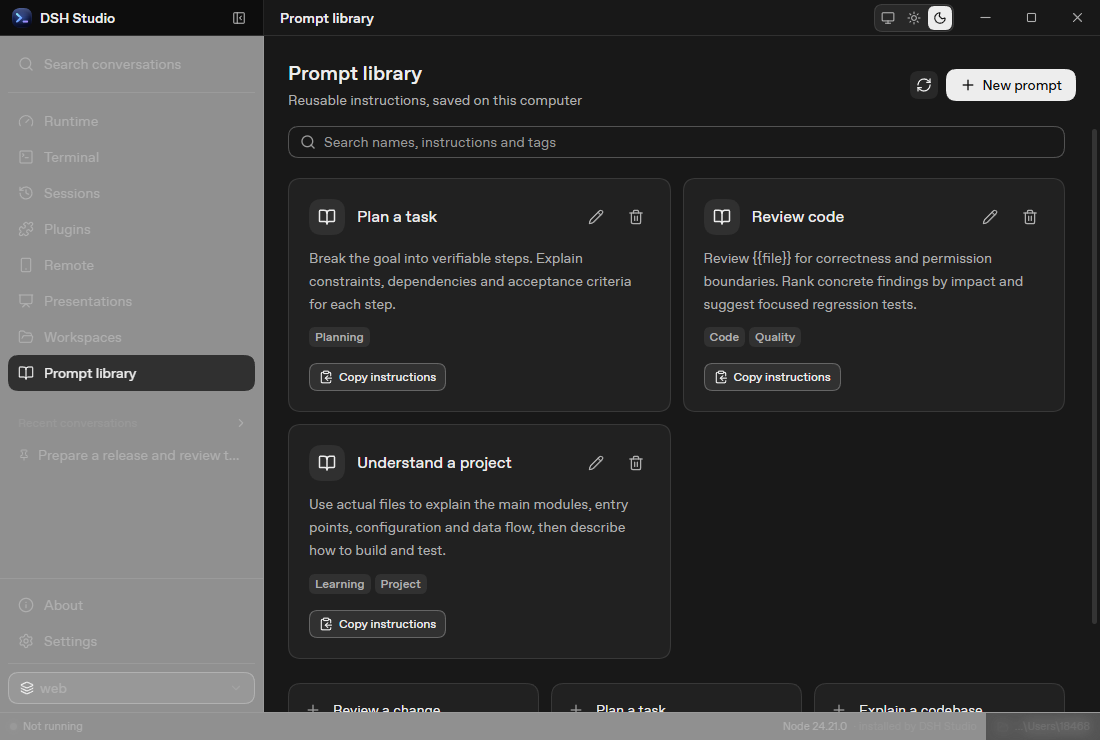
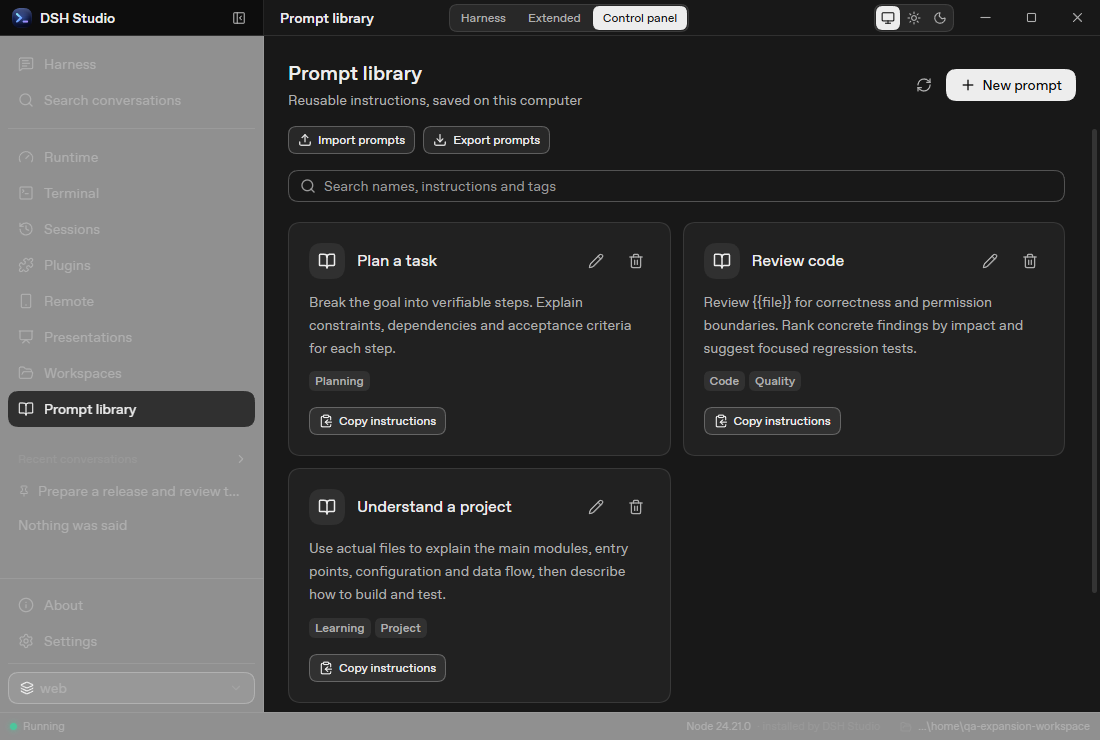
chore: 准备 v0.9.24 双语说明及真实桌面截图

diff --git a/.github/release-notes/0.9.24.zh-CN.md b/.github/release-notes/0.9.24.zh-CN.md
@@ -1,0 +1,32 @@
+# DSH Studio v0.9.24
+
+## 新功能
+
+- 工作区新增「浏览文件」：按目录加载、筛选和返回上级，直接预览及复制 UTF-8 文本。只读预览最多 1 MiB，目录最多 1,500 项，不执行文件内容。
+- 会话新增批量整理：一次最多 500 条，可批量置顶、取消置顶、添加或删除标签；保留既有名称、笔记和消息书签。
+- 提示库支持 JSON 导入导出；设置页支持个人资料备份恢复，包含提示词与会话资料。导入先查看数量和冲突，默认保留已有记录，也可明确替换冲突记录；未出现在备份中的记录继续保留。
+
+## 变更与安全
+
+- 批量会话操作先校验全部目标，再原子保存；任一目标失效或超限时整批不写入。
+- 导入使用源文件及现有资料摘要绑定预览，并发修改后必须重新确认；损坏、未知格式、超过 2 MiB 或合并后超限的资料拒绝覆盖。备份不包含凭据、运行环境设置和 Harness 原始日志。
+- 文件浏览限定当前工作区，拒绝越界、链接、重解析点和二进制预览；Windows 校验已打开句柄的最终路径。导出拒绝覆盖 Studio 托管数据。新增命令仅用于原生外壳，公开 Protocol 3 和只读 Host Protocol 1 保持既有边界。
+
+## 修复与打磨
+
+- 窗口与 Harness 外观双向同步，跟随系统保留为自动偏好；首次加载保护不再重复启动，避免紧接着选择的主题被忽略。
+- 搜索尚未稳定时禁用批量选择；切换搜索、筛选或排序后清空旧选择。标签草稿取消或改为置顶操作时先确认。
+- 个人工具统一弹窗、焦点、输入框和按钮。更新中英文使用指南、架构说明及真实桌面截图，本地待提交的主题修复一并纳入。
+
+## 验证
+
+- 两轮真实 Windows WebView 验收覆盖深浅主题、900×620 紧凑布局、文件目录/预览/复制、批量持久化、JSON 文件输入、取消导入、冲突保留/替换和过期预览拒绝。
+- 回归 10 个桌面页面、5 个真实终端及三轮 Harness 启停；连续跨界面改选浅色/跟随系统约 1 秒同步完成。首轮冷启动较慢，后两轮约 3 秒就绪。
+- 本地 679 项前端、577 项执行的 Rust 和 158 项打包测试通过，前端行覆盖率 99.36%；生产构建、体积预算、严格 Clippy、lint、ACL 与双语文档门禁通过。
+- 本地证据不包含付费模型调用、macOS/Linux 物理真机 GUI 或系统保存选择器的点击；原生 JSON 导出成功/失败已验证，正式安装与全平台资源由发布流水线验收。
+
+## 安装
+
+- 可覆盖升级 v0.9.23，保留既有运行时、配置、会话和个人资料。个人资料备份为 Studio 自有 JSON 格式，恢复不会重写 Harness 会话日志。
+- 继续提供 Windows x64、Linux x64、macOS Apple Silicon、Intel 和 Universal。Lite 按需安装运行时，Full/Offline 携带验证资源；Windows 便携版完整解压并保留 EXE 旁的 `dist/`。
+- 应用内更新继续使用签名更新通道；系统发布者签名与更新包签名是独立机制。

diff --git a/docs/user-guide.md b/docs/user-guide.md
@@ -63,6 +63,24 @@ apply a directory switch. Summaries inherit transcript read limits and are not b
 
 ## Reading and export
 
+**Organize selection** selects current session results for batch pinning/unpinning
+and adding/removing tags. Select at most 500 sessions; changing search or filters
+clears selection. Validation precedes one atomic save, preserving names, notes
+and bookmarks. Any invalid record rejects the entire batch.
+
+Import/export prompt JSON in **Prompt library**, or back up/restore prompts and
+session annotations under **Personal data** in Settings. Backups exclude
+credentials, Harness logs and runtime preferences. Preview counts and conflicts
+before importing: keep existing records by default or explicitly replace
+conflicts. Records absent from the backup remain. Concurrent changes require a
+fresh preview; corrupt, unknown-format and over-2-MiB input is rejected.
+
+**Browse files** in Workspaces lazily lists the current workspace, with filtering,
+parent navigation, read-only text preview and copying. Each directory displays
+at most 1,500 entries; previews accept valid UTF-8 text up to 1 MiB. Binary files
+and editing are unsupported. Symlinks and Windows reparse points are not followed;
+requests for an old workspace are rejected after switching roots.
+
 Search saved conversations by their content, open a matching excerpt, and export
 the native transcript as Markdown, HTML or JSON. Long transcripts display up to
 120 messages per segment; the footer goes to earlier, later, first or latest
@@ -81,6 +99,10 @@ loaded portion. Markdown/HTML exports include a warning; JSON includes
 Discovery can use npm, DSH 1024Store, the rate-limited reviewed dshfind catalog, or a custom standard catalog. The Sources tab also opens [DSH Hub](https://dsh-hub.org/) for community discovery: copy a listed npm package name back into Studio search and the same native review applies. DSH Hub currently exposes a website directory rather than Studio's public catalog Schema 1.0.0 endpoint, so Studio does not scrape its HTML or treat the homepage as an install authority. Results are indexed for ten minutes and support category filters, sorting and 25-item pages. A catalog can only suggest an exact npm target. Before any mutation, Studio resolves that version again through npm and checks package syntax and the Harness peer range. A successful market install writes a receipt with the exact source, version and integrity; the managed badge is shown only while the installed version still matches that receipt. Plugin changes have a durable before-image; an interrupted operation is rolled back on the next launch and reported in the UI.
 
 ## Presentation and desktop integration
+
+Light, Dark and System choices synchronize between the window and Harness
+settings. System remains an automatic preference. Initial connection waits for
+saved Harness settings; subsequent rapid choices synchronize after confirmation.
 
 The terminal layout selector offers a single pane, side-by-side panes, stacked
 panes and a four-pane grid. Open shells explicitly with **New terminal**; layout

diff --git a/docs/user-guide.zh-CN.md b/docs/user-guide.zh-CN.md
@@ -49,6 +49,19 @@ Web 界面。Studio 外壳从同一回环站点（`http://127.0.0.1`）伺服自
 
 ## 阅读与导出
 
+会话页的「批量整理」支持勾选当前结果、批量置顶或取消置顶，以及增删标签。一次最多
+选择 500 条，切换筛选或搜索条件会清空选择；所有记录通过校验后才一起保存，失败时
+整批保持原样，原有名称、笔记和书签保留。
+
+提示库支持导入及导出 JSON；设置页的「个人资料」可备份和恢复提示词及会话资料。
+备份不包含凭据、Harness 日志或运行环境设置。导入先预览数量和冲突，默认保留已有
+记录，也可明确选择替换冲突记录；备份中没有的记录不会删除。预览后资料发生变化时
+必须重新预览，损坏、未知格式或超过 2 MiB 的文件会被拒绝。
+
+工作区页的「浏览文件」按目录加载当前工作区，支持筛选、返回上级、文本预览和复制。
+每个目录最多显示 1,500 项，文本文件最多 1 MiB，仅接受有效 UTF-8 文本；不支持二进制
+预览或编辑。符号链接及 Windows 重解析点不跟随；切换工作区后旧请求会被拒绝。
+
 可以按内容搜索已有会话、打开命中片段，并将原生记录导出为 Markdown、HTML 或 JSON。
 长会话每段显示最多 120 条消息，底部可切换上一段、下一段、最早或最新消息；搜索直接
 打开命中消息所在的段。分页不会限制导出的记录。归档仅从活动列表隐藏会话，不删除
@@ -63,6 +76,9 @@ Harness 日志；可以在「已归档」页签中恢复。
 「发现」页可切换 npm、DSH 1024Store、受频率限制且经过审查的 dshfind 目录，或自定义标准目录。「来源」页还可以打开 [DSH Hub](https://dsh-hub.org/) 发现社区插件：把页面列出的 npm 包名带回 Studio 搜索，仍会经过同一套原生安全检查。DSH Hub 当前提供的是网站目录，不是 Studio 公开的目录 Schema 1.0.0 接口，因此 Studio 不会抓取其 HTML，也不会把首页当作安装权威。结果会索引缓存十分钟，并支持分类筛选、排序和每页 25 项的分页。目录只负责发现，安装前仍会从 npm 重新读取精确版本、检查包名和 Harness peer 兼容性。市场安装成功后会记录精确来源、版本与完整性；只有磁盘中的安装版本仍与回执一致时才显示「市场托管」。插件变更写入恢复日志；进程中断后，下次启动会恢复变更前状态并给出提示。
 
 ## 界面模式与桌面集成
+
+窗口与 Harness 设置中的浅色、深色、跟随系统会双向同步。「跟随系统」保留为自动
+偏好；首次连接等待 Harness 读取已保存设置，之后连续切换会在确认后同步。
 
 终端布局选择器支持单窗口、左右分屏、上下分屏和四宫格。通过**新建终端**显式打开
 Shell，切换布局不会创建或重启进程。超出当前分组的终端仍保留在标签栏，选择标签即可

diff --git a/.github/release-notes/0.9.24.en.md b/.github/release-notes/0.9.24.en.md
@@ -1,0 +1,27 @@
+# DSH Studio v0.9.24
+
+## New features
+
+- Browse workspace folders lazily, filter entries and preview/copy read-only UTF-8 text up to 1 MiB; list at most 1,500 entries per directory.
+- Organize up to 500 selected sessions with atomic pins and tag changes, preserving names, notes and bookmarks.
+- Import/export prompt JSON and back up/restore personal prompts and session annotations. Review conflicts, keep existing records by default or explicitly replace conflicts; preserve records absent from the backup.
+
+## Changes and safety
+
+- Validate complete batches before one atomic commit. Bind import previews to source/current-library digests, rejecting stale confirmation, malformed/future/oversized input and merge overflow. Exclude credentials, runtime preferences and Harness logs.
+- Bound browsing to the current workspace, reject traversal/links/reparse points/binary previews and verify final file-handle paths on Windows. Prevent exports to managed application data. Private shell commands retain public Protocol 3/Host Protocol 1 boundaries.
+
+## Fixes and polish
+
+- Synchronize shell/Harness appearance while preserving System preference; initial saved-settings settling no longer swallows rapid subsequent choices.
+- Disable batch controls while search settles, clear selections when the view changes and confirm discarding tag drafts. Reuse modal focus handling and shared controls; update bilingual guides, architecture and actual screenshots, including pending local theme fixes.
+
+## Verification
+
+- Two actual Windows WebView rounds cover dark/light, 900×620 layouts, file navigation/preview/copy, batch persistence, JSON input, canceled/keep/replace imports and stale-preview rejection.
+- Regress ten routes, five actual PTYs and three Harness start/stop cycles. Rapid appearance choices synchronize in about one second; first cold startup is slower than subsequent approximately-three-second starts.
+- Pass 679 frontend, 577 executed Rust and 158 packaging tests, with 99.36% frontend line coverage, production build/budget, strict Clippy, lint and contract/documentation checks. Paid providers, physical macOS/Linux GUI and OS save-picker clicks are outside local evidence; native export outcomes are verified and platform installers are qualified by release CI.
+
+## Installation
+
+- Upgrade over v0.9.23 retaining runtime, profiles, sessions and personal data. Existing five-platform Lite/Full editions continue; Windows portable builds require adjacent `dist/`. Personal JSON restore does not rewrite Harness logs. Updater and OS publisher signatures remain separate mechanisms.

diff --git a/CHANGELOG.md b/CHANGELOG.md
@@ -9,6 +9,26 @@ pre-1.0 caveat that anything may still move.
 
 ## [Unreleased]
 
+## [0.9.24] — 2026-10-01
+
+### Added
+
+- Browse the current workspace with lazy folder loading, filtering, parent navigation and bounded read-only UTF-8 previews/copying. Reject stale workspace requests, traversal, links and binary/oversized previews.
+- Select up to 500 sessions for atomic batch pins and tag changes. Selection follows the current search/filter view; preserve names, notes and bookmarks and reject the entire batch on validation failure.
+- Import/export prompt JSON and back up/restore personal session annotations and prompts. Preview conflicts, keep existing records by default or explicitly replace conflicts, and reject stale confirmations after concurrent changes. Exclude credentials, runtime settings and Harness logs.
+
+### Fixes and safety
+
+- Synchronize shell and Harness appearance through Harness's own theme service, retaining System preference. Restrict saved-settings settling to initial connection so rapid subsequent choices are not discarded; validate incoming bridge source/origin and cancel pending reports on disposal.
+- Protect open personal-data dialogs and writes during close/update/recovery. Reject corrupt/future/oversized imports, preserve absent records, use one atomic merge, and prevent exports from overwriting Studio's managed data.
+- Share modal focus handling across personal tools, disable batch controls while search results settle, and confirm before discarding tag drafts. Refresh bilingual guides and actual desktop screenshots.
+
+### Verification
+
+- Two real Windows WebView rounds cover file navigation/preview/copy, batch persistence, JSON file selection, keep/replace/cancel imports, stale-preview protection and native ACL failures; include light 900×620 and dark regular layouts.
+- Regress ten desktop routes and five real PTYs. Three Harness stop/start cycles succeed on Node 24.21.0; rapid cross-surface appearance changes persist. First cold start was slower than subsequent approximately-three-second starts.
+- 679 frontend tests, 577 executed Rust tests including the runtime-range oracle, and 158 packaging tests; frontend line coverage 99.36%. Production bundle budget, strict Clippy, lint and contract/documentation gates pass. Paid providers, physical macOS/Linux GUI and the OS save-picker interaction are outside local WebView evidence; native export writes and failures are verified.
+
 ## [0.9.23] — 2026-10-01
 
 ### Added

diff --git a/CHANGELOG.zh-CN.md b/CHANGELOG.zh-CN.md
@@ -9,6 +9,26 @@
 
 ## [未发布]
 
+## [0.9.24] —— 2026-10-01
+
+### 新增
+
+- 当前工作区文件浏览：按目录加载、筛选、返回上级、限额 UTF-8 只读预览与复制；拒绝旧工作区请求、越界路径、链接、二进制及超限预览。
+- 最多 500 条会话的批量置顶和标签整理。选择随搜索及筛选视图失效，保留名称、笔记与书签，校验失败整批不落盘。
+- 提示词 JSON 导入导出、个人会话资料与提示词备份恢复。先预览冲突，默认保留现有记录或明确替换；资料并发变化后拒绝旧确认，不包含凭据、运行设置和 Harness 日志。
+
+### 修复与安全
+
+- 通过 Harness 自身主题服务双向同步窗口外观，保留跟随系统偏好；已保存设置的保护仅作用于初次连接，后续连续选择不再被忽略。桥接核验消息来源，卸载时取消待报告事件。
+- 个人资料弹窗和写入纳入关闭、更新及恢复保护。拒绝损坏、未来格式和超限导入，保留备份中不存在的记录，一次原子合并；导出不能覆盖 Studio 托管数据。
+- 个人工具共享模态焦点管理，搜索未稳定时禁用批量操作，放弃标签草稿前确认；更新双语说明及真实桌面截图。
+
+### 验证
+
+- 两轮真实 Windows WebView 验收覆盖文件浏览/预览/复制、批量保存、JSON 文件选择、保留/替换/取消导入、过期预览及原生 ACL 拒绝；包括浅色 900×620 和深色常规布局。
+- 回归 10 个页面和 5 个真实 PTY。Node 24.21.0 的三轮 Harness 启停成功，跨界面连续选择主题能够保存；首次冷启动比随后约 3 秒的启动更慢。
+- 679 项前端、577 项执行的 Rust（含运行版本范围对照）及 158 项打包测试，前端行覆盖率 99.36%；生产体积预算、严格 Clippy、lint 和合同/文档门禁通过。付费模型、macOS/Linux 物理真机 GUI 与系统保存选择器交互不属于本地 WebView 证据；原生导出写入及失败边界已验证。
+
 ## [0.9.23] —— 2026-10-01
 
 ### 新增

diff --git a/docs/architecture.zh-CN.md b/docs/architecture.zh-CN.md
@@ -5,7 +5,13 @@
 个人资料使用独立的 `personal-library.json`，保存会话显示名、置顶、标签、笔记、书签和提示词。
 原生端限定格式、数量和 2 MiB 文件大小，序列化写入按字段合并并原子提交；损坏或未知格式拒绝覆盖。
 这些命令仅对 Studio 外壳开放，不加入 Harness 公开桥或只读 Host 合同。资料编辑与保存纳入退出、
-更新和渲染器恢复保护。工作区汇总读取已有会话索引，不新增扫描文件内容的权限。
+更新和渲染器恢复保护。批量资料更新先核验全部会话，再一次提交。JSON 备份导入使用源文件
+摘要及当前资料版本摘要绑定预览，拒绝并发修改后的旧确认；保留和替换冲突均采用原子合并。
+备份导出拒绝覆盖应用托管文件。工作区汇总读取已有会话索引；只读文件浏览另以当前工作区
+为边界，逐段拒绝链接/重解析点，Windows 还校验已打开句柄的最终路径，限制目录项及文本大小。
+
+窗口外观与 Harness 自身主题服务双向同步，桥接消息核验来源与窗口；仅初次连接等待保存
+设置加载，后续快速切换不会重新开启保护窗口。「跟随系统」与当前实际配色分别保留。
 
 DSH Studio 是 Harness 的宿主，不是其 fork。React WebView 只通过列入 Tauri invoke handler 的命令访问 Rust；Harness 运行在受进程树保护的子进程中，只监听回环地址。Rust supervisor 解析就绪输出、探测健康状态、退避重启，并在退出时由 Windows Job Object 或 Unix 进程组回收整棵子进程树。
 

diff --git a/docs/architecture.md b/docs/architecture.md
@@ -8,7 +8,18 @@ the 2 MiB file; serialized writes merge touched fields and commit atomically.
 Damaged or unknown formats are never overwritten. Commands are private to the
 Studio shell, outside the public Harness bridge and read-only Host contract.
 Editing and saving participate in exit, update and renderer-recovery guards.
-Workspace summaries read the existing session index without new file-content authority.
+Batch updates validate every session before one commit. JSON import binds preview
+to both source and current-library digests, rejecting confirmations after concurrent
+changes. Keep/replace conflict policies use atomic merges; export refuses managed
+application targets. Workspace summaries read the session index. Read-only file
+browsing is separately bounded to the current workspace, rejects links/reparse
+points component by component, verifies final opened-handle paths on Windows and
+limits directory entries and text size.
+
+Shell appearance and the Harness theme service synchronize in both directions,
+validating message origin and window. Only initial connection waits for saved
+settings; rapid subsequent choices do not restart that guard. System preference
+and resolved color scheme remain distinct.
 
 DSH Studio hosts Harness; it does not fork it. The React WebView reaches Rust only through commands listed in the Tauri invoke handler. Harness runs as a guarded child bound to loopback. The Rust supervisor parses readiness, probes health, applies restart backoff, and lets a Windows Job Object or Unix process group reclaim the complete child tree.
 

diff --git a/README.md b/README.md
@@ -70,11 +70,19 @@ navigation to associated records. Pin sessions, name them, add tags/notes and
 bookmark messages. The local prompt library supports editing, search, variables,
 preview and copying. Bounded native validation and atomic writes preserve original
 Harness logs; close, update and recovery protect unfinished edits.
+Batch pins/tags organize selected sessions. Prompt JSON import/export and personal
+backups preview conflicts and reject stale confirmations. Workspace browsing lazily
+loads directories and previews/copies bounded UTF-8 text without editing files.
 
 <img src="assets/prompt-library.png" width="820" alt="Local prompt library in the actual desktop: shared cards, tags and copy actions">
 
-The prompt-library image uses the v0.9.23 frontend in isolated Windows QA, with
+The prompt-library image uses v0.9.24 in isolated Windows QA, with
 demonstration content and processed local paths.
+
+<img src="assets/workspace-files.png" width="820" alt="Workspace files in the actual desktop: lazy folders, filtering, read-only text preview and copying">
+
+The file-browser image uses isolated demonstration data. Links, special files
+and oversized previews are rejected.
 
 **Supervises, rather than just launches.**
 The service runs under a supervisor that restarts it with backoff when it exits.

diff --git a/docs/ROADMAP.md b/docs/ROADMAP.md
@@ -2,7 +2,7 @@
 
 [简体中文](ROADMAP.zh-CN.md)
 
-Updated 2026-10-01. The version baseline is v0.9.23. In-development work is not
+Updated 2026-10-01. The version baseline is v0.9.24. In-development work is not
 released until it appears in a published version's changelog. This document
 records product capabilities and acceptance boundaries, not relative rankings
 or promises of zero defects.
@@ -48,10 +48,15 @@ none alone proves final-installer or physical macOS acceptance.
 
 ## In development
 
-Session pins, display names, tags, notes, message bookmarks, workspace summaries
-and a personal prompt library enter v0.9.23. Bounded native persistence preserves
-damaged files; exit, update and reload protect editors and pending writes.
 Cross-device sync, workspace-linked documents and durable crash drafts remain future work.
+
+## v0.9.23–0.9.24
+
+Session pins, display names, tags, notes, message bookmarks, workspace summaries
+and a personal prompt library enter v0.9.23. v0.9.24 adds batch pins/tags, prompt
+JSON transfer, personal backups and read-only workspace file browsing. Bounded
+atomic writes and preview-bound imports preserve existing data; exit, update and
+reload protect editors and pending writes.
 
 ## Included in v0.9.20–0.9.22
 

diff --git a/docs/ROADMAP.zh-CN.md b/docs/ROADMAP.zh-CN.md
@@ -2,7 +2,7 @@
 
 [English](ROADMAP.md)
 
-更新于 2026-10-01，版本基线为 v0.9.23。开发中的项目只有进入正式发布版本的更新日志
+更新于 2026-10-01，版本基线为 v0.9.24。开发中的项目只有进入正式发布版本的更新日志
 后，才属于已发布功能。本文件记录产品能力与验收边界，不以相对排名或“零缺陷”承诺
 代替实际证据。
 
@@ -44,9 +44,13 @@
 
 ## 开发中
 
-本轮会话置顶、显示名、标签、笔记、消息书签、工作区概览与个人提示库进入 v0.9.23。
-资料写入包含格式、数量和大小限制，损坏文件保留；退出、更新及重载保护编辑器和保存操作。
 后续工作包括跨设备资料同步、文稿与工作区关联和持久草稿恢复，尚未交付。
+
+## v0.9.23–0.9.24
+
+会话置顶、显示名、标签、笔记、消息书签、工作区概览与个人提示库进入 v0.9.23。
+v0.9.24 增加批量置顶/标签、提示词导入导出、个人资料备份恢复及工作区只读文件浏览。
+资料写入限额校验并原子提交，导入绑定已审阅快照；关闭、更新和重载保护编辑器与保存操作。
 
 ## v0.9.20–0.9.22 已交付
 
